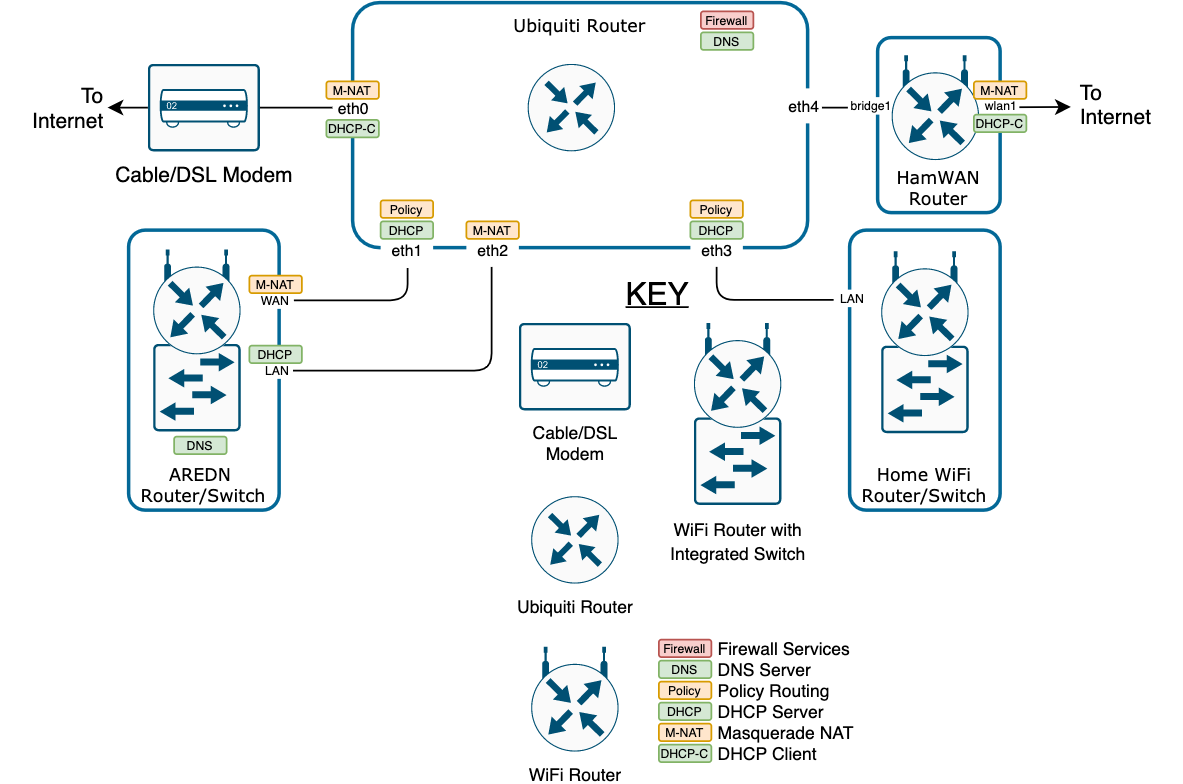
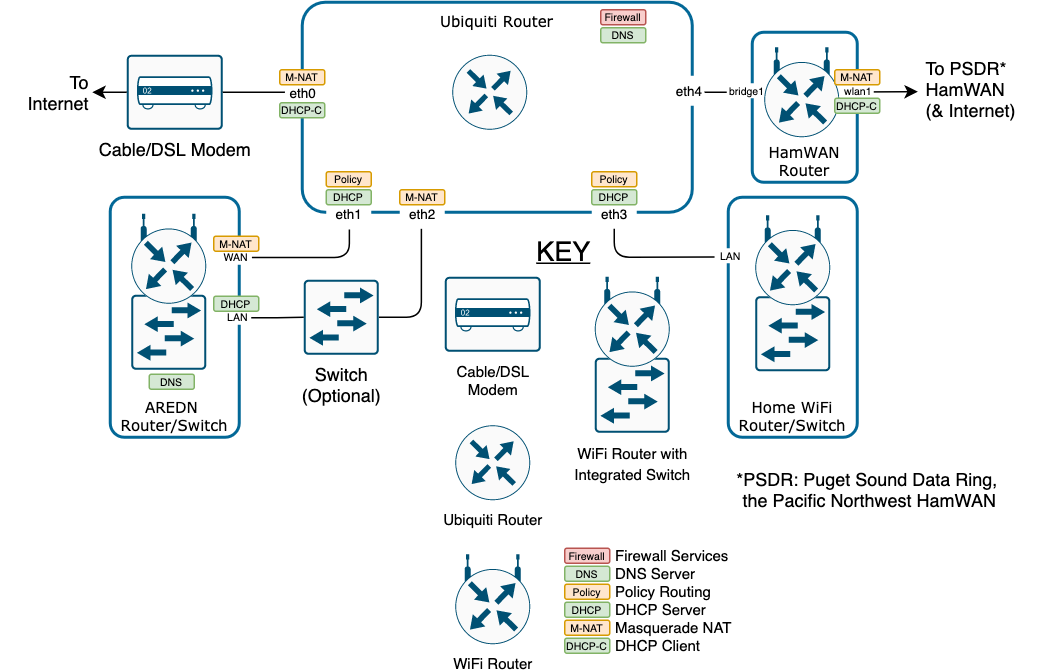
Updated README and diagram

diff --git a/hamwan-arden-home-README.md b/hamwan-arden-home-README.md
@@ -58,6 +58,8 @@ Here's what we're going to build:
 
 ![Home + AREDN + HamWAN Network Integration](img/home-aredn-hamwan-integration.png)
 
+Note the switch inserted between the AREDN Router/Switch and the Ubiquiti Router in the diagram. That's optional. You'll need it if you want to plug any ethernet devices directly into your AREDN LAN.  Otherwise, you can just run a cable directly from the AREDN Router/Switch LAN port to the Ubiquiti Router `eth2` port.  I'll assume you'll be running a cable and not inserting a switch as shown.  You can add a switch at a later date, and no additional configuration is needed on any of the devices in the diagram.
+
 ### Address Assignments
 
 We'll be assigning these IP addresses to the ER-X interfaces shown in this diagram:
@@ -353,13 +355,15 @@ Only 2 additional commands are needed in the HamWAN router. These commands tell 
 
 We'll add to the DNS server configuration to enable name resolution of AREDN devices and we'll enable masquerade NAT on the AREDN LAN interface. Enabling masquerade NAT will give the AREDN router the illusion that the packets are coming from a device on it's own LAN when in reality they are coming from a device on your home network. The NAT feature plus AREDN name resolution will allow any of your home LAN devices to access any AREDN devices by name or IP address.
 
-Remember that table you made in the [Configure AREDN Router - Part 1](#configure-aredn-router---part-1) step?  You're going to use it now. 
+
 
 #### NAT and DNS
 
+Remember that table you made in the [Configure AREDN Router - Part 1](#configure-aredn-router---part-1) step?  You're going to use it now. Wherever you see `<value from Line 1 in your table>` or `<value from line 2 in your table>` in the steps below, replace it with the values from your table. Don't include the `<>` symbols when you enter the commands. 
+
 1. Plug your PC into your WRS LAN port and log in to the ER-X router's web interface at `https://192.168.73.1`.
 1. Click the __CLI__ button to open the CLI.
-1. We'll change the IP address of the ER-X's `eth2` interface so it's in the same IP subnet as the AREDN router's LAN interface.  Then, we'll set up masquerade NAT on this interface. Enter these commands in the CLI (__*Change the* `eth2` *address below to your own value in the* `set interfaces...` *command below!*__):
+1. We'll change the IP address of the ER-X's `eth2` interface so it's in the same IP subnet as the AREDN router's LAN interface.  Then, we'll set up masquerade NAT on this interface. Enter these commands in the CLI:
 
 		configure
 		delete interfaces ethernet eth2 address 10.1.1.1/24
@@ -374,7 +378,7 @@ Remember that table you made in the [Configure AREDN Router - Part 1](#configure
 
 1. Finally, we'll tell the ER-X DNS server to send requests for name resolution for names ending in `.local.mesh` to the AREDN router's LAN interface IP address (from your table) where your local AREDN node's DNS server is listening. 
 
-		set service dns forwarding options server=/local.mesh/<value from Line 2 in your table>
+		set service dns forwarding options server=/local.mesh/<value from Line 1 in your table>
 		commit;save
 
 1. Connect an ethernet cable from ER-X port `eth2` to the AREDN router LAN port.
@@ -383,7 +387,7 @@ Remember that table you made in the [Configure AREDN Router - Part 1](#configure
 
 #### Policy Routing
 
-1. Back in the ER-X CLI, set up a new routing table (we'll call it table `88`) just for HamWAN.  `0.0.0.0/0` means "all networks". This is called a [default route](https://en.wikipedia.org/wiki/Default_route).
+1. Back in the ER-X CLI, set up a new routing table (we'll call it table `88`) just for HamWAN. `0.0.0.0/0` means "all networks". This is called a [default route](https://en.wikipedia.org/wiki/Default_route).
 
 		set protocols static table 88 route 0.0.0.0/0 next-hop 192.168.88.1
 		
@@ -405,10 +409,10 @@ Remember that table you made in the [Configure AREDN Router - Part 1](#configure
 		set firewall group network-group HAMWAN_NETS network 44.34.128.0/21
 		set firewall group network-group HAMWAN_NETS network 44.36.240.0/21
 
-1. Make a group for the port used for AREDN Tunnels:
+1. Make a group for the ports used for AREDN services.  We'll add the AREDN tunnel service port to this group so it'll be ready to go should you decide to host a tunnel server on your AREDN router. 
 
-		set firewall group port-group AREDN_TUNNEL description 'AREDN Tunnel Port'
-		set firewall group port-group AREDN_TUNNEL port 5525
+		set firewall group port-group AREDN_SERVICES description 'AREDN Services via HamWAN'
+		set firewall group port-group AREDN_SERVICES port 5525
 
 1. Make a group consisting of the IP subnets of our ER-X LAN IP subnets:
 
@@ -430,22 +434,22 @@ Remember that table you made in the [Configure AREDN Router - Part 1](#configure
 		set firewall modify POLICY_ROUTE rule 20 destination group network-group HAMWAN_NETS
 		set firewall modify POLICY_ROUTE rule 20 modify table 88
 
-1. Let's make sure that any tunnels from a __Tunnel Client__ on your local AREDN node to a __Tunnel Server__ elsewhere are built through the HamWAN path rather than via our regular ISP. AREDN tunnel client traffic will come from 192.168.77.2, the IP address of our AREDN node's WAN interface, and be sent to a destination port of `5525`, which we set earlier in `port-group AREDN_TUNNEL`.
+1. Let's make sure that any tunnels from a __Tunnel Client__ on your local AREDN node to a __Tunnel Server__ elsewhere are built through the HamWAN path rather than via our regular ISP. AREDN tunnel client traffic will come from `192.168.77.2`, the IP address of our AREDN node's WAN interface, and be sent to a destination port of `5525`.
 
 		set firewall modify POLICY_ROUTE rule 30 action modify
 		set firewall modify POLICY_ROUTE rule 30 description 'AREDN Tunnel Client Traffic via HamWAN'
 		set firewall modify POLICY_ROUTE rule 30 source address 192.168.77.2
 		set firewall modify POLICY_ROUTE rule 30 protocol tcp
-		set firewall modify POLICY_ROUTE rule 30 destination group port-group AREDN_TUNNEL
+		set firewall modify POLICY_ROUTE rule 30 destination port 5525
 		set firewall modify POLICY_ROUTE rule 30 modify table 88
 
-1. Let's set up a policy for handling traffic to/from a local AREDN __Tunnel Server__, should you decide to set one up (details later in this document).
+1. Let's set up a policy for handling traffic to/from local AREDN services you might want set up on your ARDEN router and have them be reachable via HamWAN.  For example, you might want to configure an a __tunnel server__. There are instructions for setting up a tunnel server later in this document.
 
 		set firewall modify POLICY_ROUTE rule 40 action modify
-		set firewall modify POLICY_ROUTE rule 40 description 'AREDN Tunnel Server Traffic via HamWAN'
+		set firewall modify POLICY_ROUTE rule 40 description 'AREDN Services Traffic via HamWAN'
 		set firewall modify POLICY_ROUTE rule 40 source address 192.168.77.2
 		set firewall modify POLICY_ROUTE rule 40 protocol tcp
-		set firewall modify POLICY_ROUTE rule 40 source group port-group AREDN_TUNNEL
+		set firewall modify POLICY_ROUTE rule 40 source group port-group AREDN_SERVICES
 		set firewall modify POLICY_ROUTE rule 40 modify table 88
 
 1.	Tell the ER-X to apply this `POLICY_ROUTE` to packets arriving inbound on ports `eth1` and `eth3`, and commit and save our changes:
@@ -525,7 +529,7 @@ After running the wizard earlier, the firewall is configured such that all traff
 		set firewall name AREDN_LAN_LOCAL rule 10 state related enable
 		set interfaces ethernet eth2 firewall local name AREDN_LAN_LOCAL
 
-1. Finally, let's apply the same rules to the HamWAN interface.
+1. Finally, let's apply the same rules to the HamWAN interface, and add some rules that will allow access to any AREDN services we want to make available on HamWAN.
 
 		set firewall name HAMWAN_IN default-action drop
 		set firewall name HAMWAN_IN rule 10 action accept
@@ -536,6 +540,12 @@ After running the wizard earlier, the firewall is configured such that all traff
 		set firewall name HAMWAN_IN rule 10 state invalid disable
 		set firewall name HAMWAN_IN rule 10 state new disable
 		set firewall name HAMWAN_IN rule 10 state related enable
+		set firewall name HAMWAN_IN rule 20 action accept
+		set firewall name HAMWAN_IN rule 20 description ‘Allow AREDN Services'
+		set firewall name HAMWAN_IN rule 20 destination address 192.168.77.2
+		set firewall name HAMWAN_IN rule 20 destination group port-group AREDN_SERVICES
+		set firewall name HAMWAN_IN rule 20 log disable
+		set firewall name HAMWAN_IN rule 20 protocol tcp
 		set interfaces ethernet eth4 firewall in name HAMWAN_IN
 		set firewall name HAMWAN_LOCAL default-action drop
 		set firewall name HAMWAN_LOCAL rule 10 action accept
@@ -703,15 +713,26 @@ How are you going to remember all of these IP addresses? Use names instead by ad
 
 	Say you want to enter a hostname for a computer named 'humbolt'. Earlier, in the `dnsmasq` configuration, we established a domain name of `home.lan`, so humbolt's full name will be `humbolt.home.lan`. Say it's IP address is `192.168.73.10`.
 
-1. Configure a static mapping for the host:
+1. Enter configuration mode:
+
+		configure
+
+1. Configure a static mapping for 'humbolt':
 
 		set system static-host-mapping host-name humbolt.home.lan inet 192.168.73.10
 
-1. Configure an alias, too:
+1. Configure an alias, too, so you can use just 'humbolt' rather than 'humbolt.home.lan':
 
 		set system static-host-mapping host-name humbolt.home.lan alias humbolt
 		
-	You can configure as many aliases as you want.
+1.	You can configure as many aliases as you want. Here are some useful entries for your network devices you might want to add:
+
+		set system static-host-mapping host-name erx.home.lan inet 192.168.73.1
+		set system static-host-mapping host-name erx.home.lan alias erx
+		set system static-host-mapping host-name erx.home.lan alias router
+		set system static-host-mapping host-name hamwan.home.lan inet 192.168.88.1
+		set system static-host-mapping host-name hamwan.home.lan alias hamwan
+		set system static-host-mapping host-name hamwan.home.lan alias hamwan-router
 
 1. Finish
 
